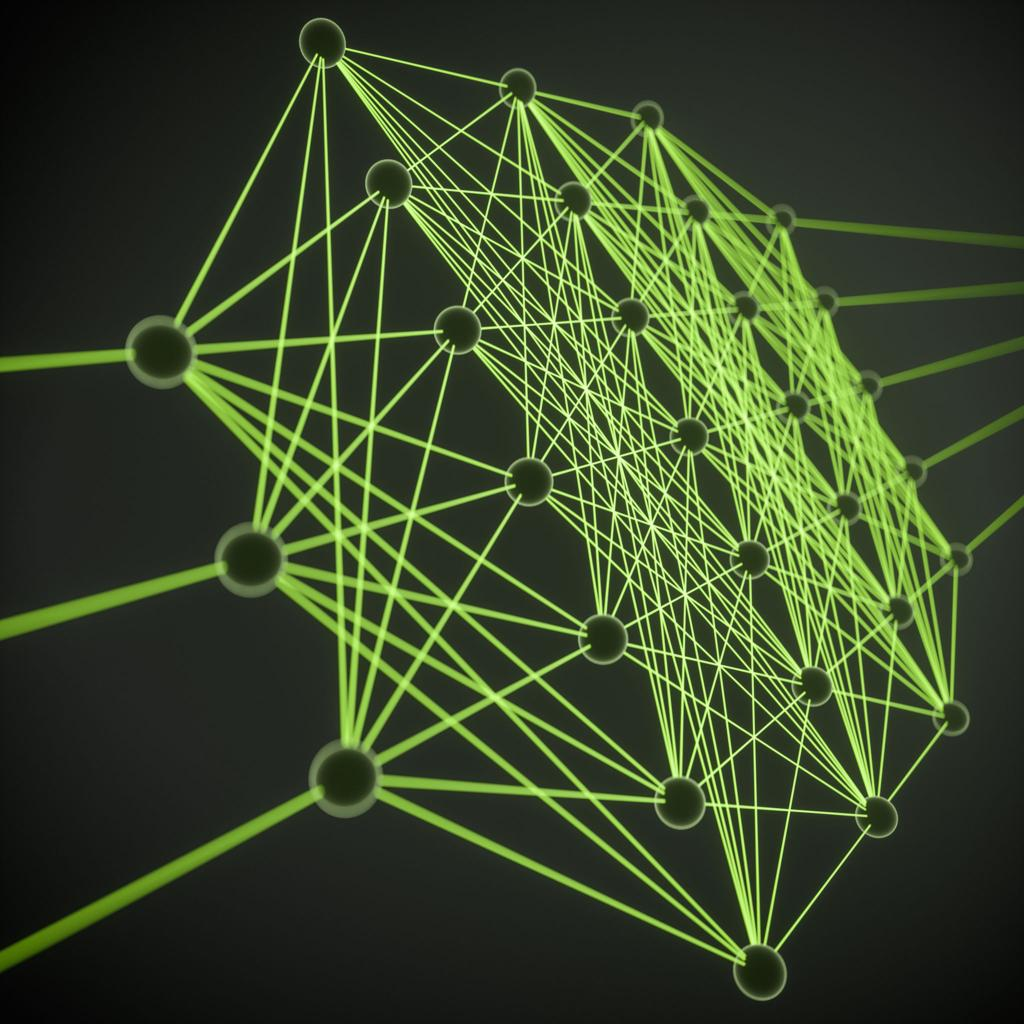
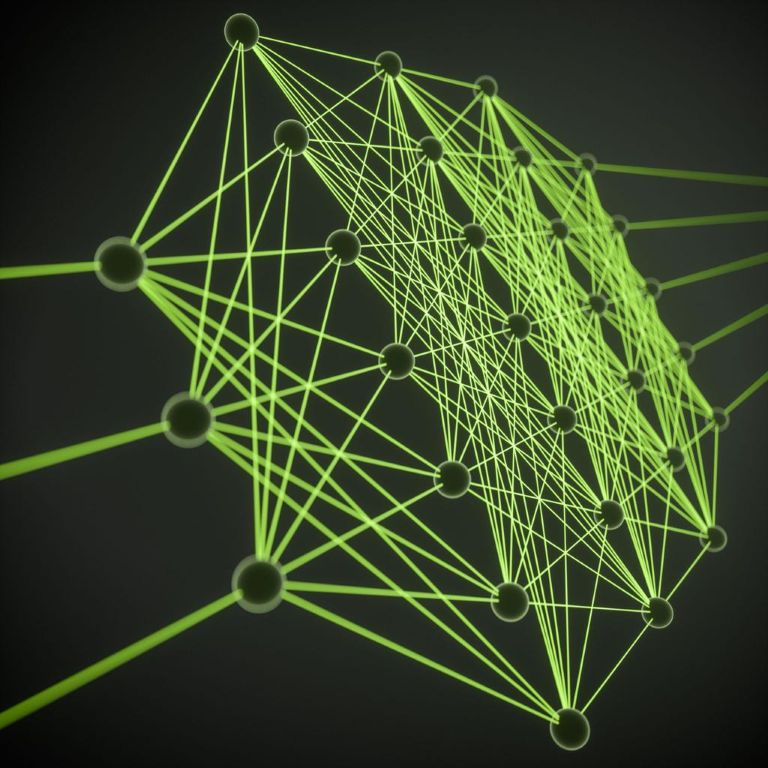
Update 3

diff --git a/client/src/components/sections/Hero.jsx b/client/src/components/sections/Hero.jsx
@@ -1,5 +1,4 @@
 import { motion } from "framer-motion";
-import HeroPic from "../../utils/assets/nero.jpg";
 import "../../styles/sections/hero.scss";
 import { useEffect } from "react";
 import { useSection } from "../../context/SectionContext";
@@ -50,7 +49,19 @@ export default function Hero() {
       {/* RIGHT SIDE (IMAGE + TEXT) */}
       <div className="hero-right">
         <div className="image-wrapper">
-          <img src={HeroPic} alt="hero"  loading="lazy"/>
+          <img 
+               src="/assets/nero-420.jpg" 
+               srcSet="
+                /assets/nero-420.jpg 400w,
+                /assets/nero-786.jpg 800w,
+                /assets/nero-1200.jpg 1200w
+               "
+               sizes="
+                (max-width: 600px) 400px,
+                (max-width: 1024px) 800px, 1200px
+               "
+               alt="hero"  
+               loading="lazy"/>
         </div>
         <div className="overlay"></div>
 

diff --git a/client/src/index.scss b/client/src/index.scss
@@ -25,10 +25,13 @@ body::before {
   content: "";
   position: fixed;
   inset: 0;
-  background: url("/assets/noise.jpg");
+  background: url("/assets/noise-1200.jpg");
   opacity: 0.35;
   pointer-events: none;
   z-index: -1;
+  @media (max-width : 768px){
+    background: url("/assets/noise-768.jpg");
+  }
 }
 .app {
   // scroll-snap-type: y mandatory;
